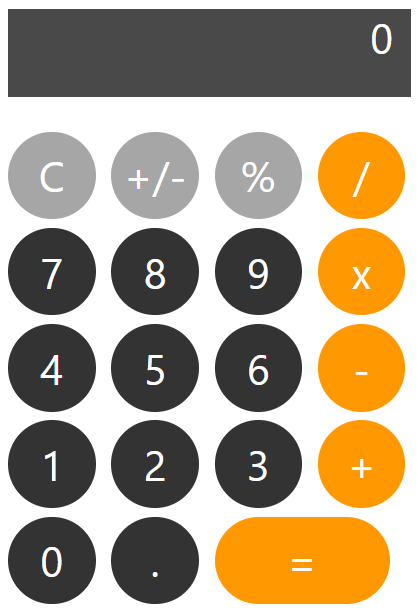
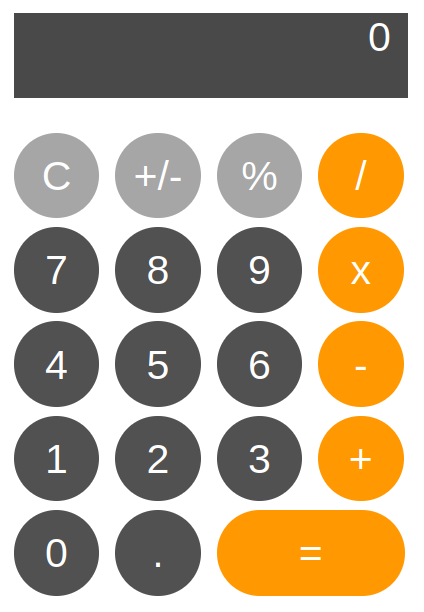
fix lab1

diff --git a/tutorials/lab1/README.md b/tutorials/lab1/README.md
@@ -389,7 +389,7 @@ p.my-large-italic {
 
 /* селектор для кнопки расчета выражения (=) */
 .my-btn.execute { 
-  width: 100px;          /* сделаем кнопку шире других */
+  width: 110px;          /* сделаем кнопку шире других */
   border-radius: 34px;   /* подкорректируем округлость */
 }
 
